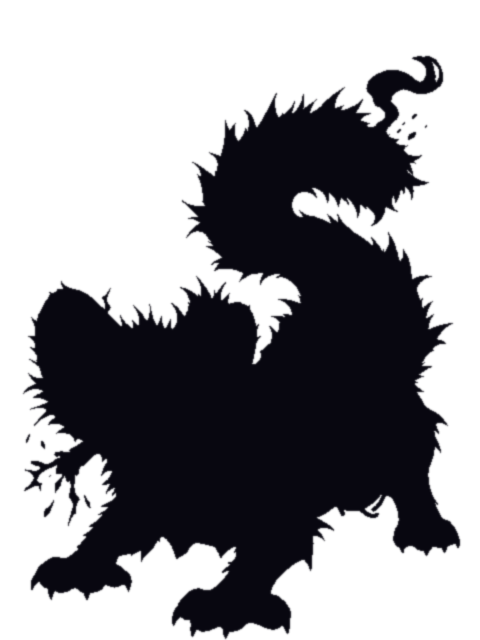
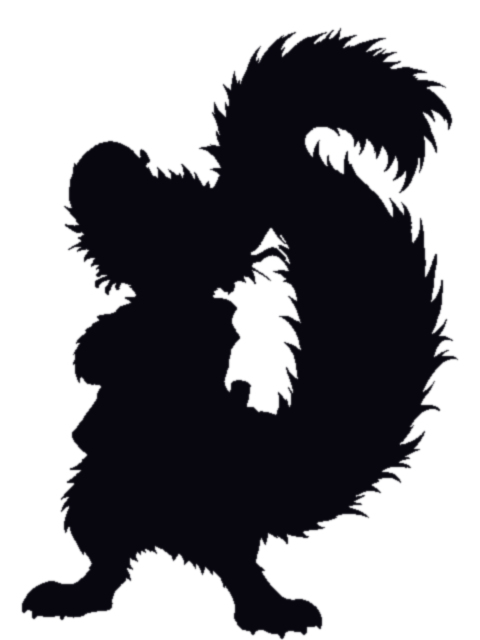
Project Flip: Fritz in his standing pose
Claude-Session: https://claude.ai/code/session_012jWvK5VipMzgFBFbsmZQMo

Changed region(s): [[0.0312, 0.0312, 0.9688, 1.0]]

diff --git a/flip/index.html b/flip/index.html
@@ -10,7 +10,7 @@
 <meta property="og:site_name" content="De-Evolution Studios">
 <meta property="og:title" content="Project Flip — De-Evolution Studios">
 <meta property="og:description" content="Project Flip: a secret new game from De-Evolution Studios. One Champion steps out of the shadows every Monday. Alpha testers wanted.">
-<meta property="og:image" content="https://deevolutionstudios.com/assets/img/flip/og.jpg?v=28345d13">
+<meta property="og:image" content="https://deevolutionstudios.com/assets/img/flip/og.jpg?v=3349e993">
 <meta property="og:image:alt" content="Project Flip">
 <meta property="og:url" content="https://deevolutionstudios.com/flip/">
 <meta name="twitter:card" content="summary_large_image">
@@ -94,13 +94,13 @@ body{background:#0a0814}
   <div class="pf-eyebrow">De-Evolution Studios · File 001</div>
   <div class="pf-stamp">CLASSIFIED</div>
   <div class="pf-stage">
-  <div class="pf-line" aria-hidden="true"><img src="/assets/img/flip/shadow-2.webp?v=1d51c946" alt="" width="480" height="640"><img src="/assets/img/flip/shadow-5.webp?v=4de2c438" alt="" width="480" height="640"><img src="/assets/img/flip/shadow-3.webp?v=499e21c1" alt="" width="480" height="640"><img src="/assets/img/flip/shadow-8.webp?v=6f4bb799" alt="" width="480" height="640"><img src="/assets/img/flip/shadow-6.webp?v=0bf0732a" alt="" width="480" height="640"><img src="/assets/img/flip/shadow-4.webp?v=f2f8c3e5" alt="" width="480" height="640"><img src="/assets/img/flip/shadow-7.webp?v=da73d004" alt="" width="480" height="640"><img src="/assets/img/flip/shadow-1.webp?v=31db6ff2" alt="" width="480" height="640"></div>
+  <div class="pf-line" aria-hidden="true"><img src="/assets/img/flip/shadow-2.webp?v=1d51c946" alt="" width="480" height="640"><img src="/assets/img/flip/shadow-5.webp?v=4de2c438" alt="" width="480" height="640"><img src="/assets/img/flip/shadow-3.webp?v=499e21c1" alt="" width="480" height="640"><img src="/assets/img/flip/shadow-8.webp?v=6f4bb799" alt="" width="480" height="640"><img src="/assets/img/flip/shadow-6.webp?v=0bf0732a" alt="" width="480" height="640"><img src="/assets/img/flip/shadow-4.webp?v=f2f8c3e5" alt="" width="480" height="640"><img src="/assets/img/flip/shadow-7.webp?v=da73d004" alt="" width="480" height="640"><img src="/assets/img/flip/shadow-1.webp?v=f156e1d7" alt="" width="480" height="640"></div>
   <h1>Project Flip</h1>
   <p class="pf-lead">Something new is being dealt. We can't show you the game yet. What we can do is introduce our Champions. Every Monday, another one steps out of the shadows. Want to know more? <a href="#alpha">Sign up to be an Alpha Tester.</a></p>
   </div>
 
   <div class="pf-head"><h2>The Champions</h2><div class="pf-count"><b>1</b> of 8 revealed</div></div>
-  <ul class="pf-roster"><li class="pf-card pf-out"><div class="pf-pic"><img src="/assets/img/flip/f-5c44ba965a.webp?v=e28e64cd" alt="Fritz" width="480" height="640" loading="lazy"></div>
+  <ul class="pf-roster"><li class="pf-card pf-out"><div class="pf-pic"><img src="/assets/img/flip/f-934f536b83.webp?v=dc6e70dc" alt="Fritz" width="480" height="640" loading="lazy"></div>
   <div class="pf-cap"><span class="pf-num">No. 1</span><strong class="pf-name">Fritz</strong><span class="pf-fac">Storm</span><p>A marten who chews through cables for fun. Sparks follow him everywhere, and so does trouble.</p></div></li>
 <li class="pf-card pf-next"><div class="pf-pic"><img src="/assets/img/flip/shadow-2.webp?v=1d51c946" alt="A Champion still in the shadows" width="480" height="640" loading="lazy"><span class="pf-q" aria-hidden="true">?</span></div>
   <div class="pf-cap"><span class="pf-num">No. 2</span><strong class="pf-name">???</strong><span class="pf-fac">Steps out Mon, Nov 30</span></div></li>

diff --git a/tools/flip.js b/tools/flip.js
@@ -8,7 +8,7 @@ module.exports = {
   total: 8,
   start: '2026-11-23', // the first Monday; fighter n is revealed on start + 7 * (n - 1) days, 09:00 Berlin
   revealed: [
-    { n: 1, name: 'Fritz', file: 'f-5c44ba965a', faction: 'Storm',
+    { n: 1, name: 'Fritz', file: 'f-934f536b83', faction: 'Storm',
       line: 'A marten who chews through cables for fun. Sparks follow him everywhere, and so does trouble.' },
   ],
 };
